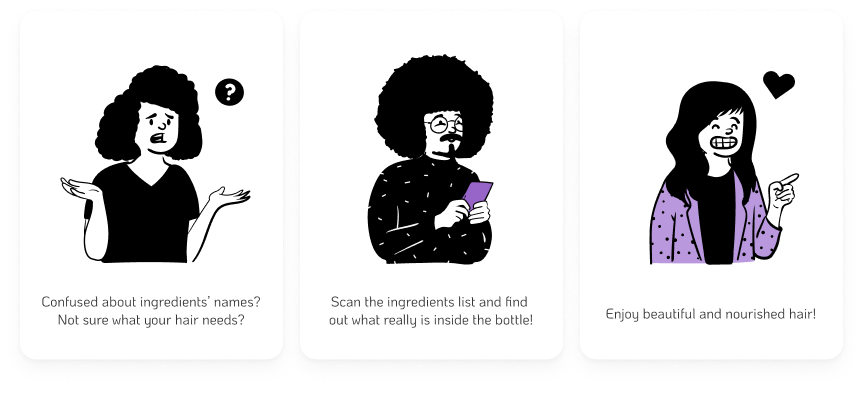
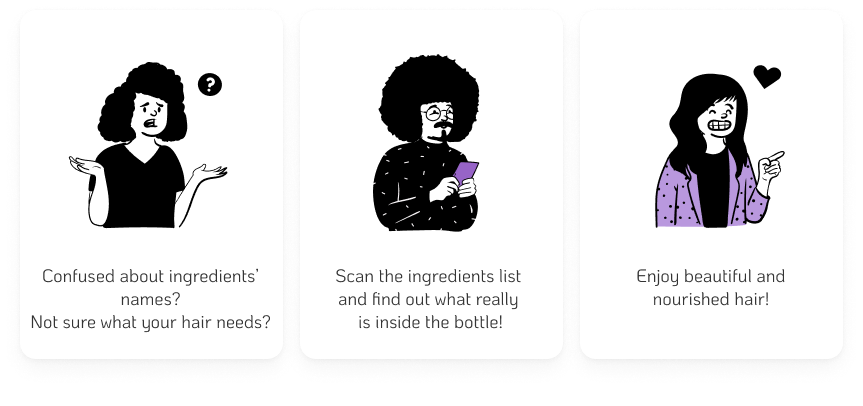
desktop view styling

diff --git a/src/components/DesktopView.vue b/src/components/DesktopView.vue
@@ -1,24 +1,160 @@
 <template>
-  <div class="bg-brand-nude w-screen h-screen">
+  <div class="relative bg-brand-nude w-screen h-screen">
+    <svg
+      class="absolute top-36 md:top-10 left-12 md:left-24"
+      width="50"
+      height="50"
+      viewBox="0 0 100 100"
+      fill="none"
+      xmlns="http://www.w3.org/2000/svg"
+    >
+      <path
+        d="M47.4012 11.9189C49.7547 30.6286 51.3792 49.6253 52.9506 88.427"
+        stroke="#F2AEE7"
+        stroke-width="2"
+        stroke-linecap="round"
+      />
+      <path
+        d="M21.9992 19.6449C39.0647 35.5117 55.817 52.1267 88.7222 87.2164"
+        stroke="#F2AEE7"
+        stroke-width="2"
+        stroke-linecap="round"
+      />
+      <path
+        d="M68.9223 16.6352C60.4965 33.5052 51.305 50.2093 31.0778 83.3591"
+        stroke="#F2AEE7"
+        stroke-width="2"
+        stroke-linecap="round"
+      />
+      <path
+        d="M88.2037 53.3961C69.3588 52.7171 50.3476 51.2726 11.7964 46.5981"
+        stroke="#F2AEE7"
+        stroke-width="2"
+        stroke-linecap="round"
+      />
+    </svg>
+    <svg
+      class="absolute top-56 md:top-20 right-16 md:right-24"
+      width="30"
+      height="30"
+      viewBox="0 0 100 100"
+      fill="none"
+      xmlns="http://www.w3.org/2000/svg"
+    >
+      <path
+        d="M47.4012 11.9189C49.7547 30.6286 51.3792 49.6253 52.9506 88.427"
+        stroke="#F2AEE7"
+        stroke-width="2"
+        stroke-linecap="round"
+      />
+      <path
+        d="M21.9992 19.6449C39.0647 35.5117 55.817 52.1267 88.7222 87.2164"
+        stroke="#F2AEE7"
+        stroke-width="2"
+        stroke-linecap="round"
+      />
+      <path
+        d="M68.9223 16.6352C60.4965 33.5052 51.305 50.2093 31.0778 83.3591"
+        stroke="#F2AEE7"
+        stroke-width="2"
+        stroke-linecap="round"
+      />
+      <path
+        d="M88.2037 53.3961C69.3588 52.7171 50.3476 51.2726 11.7964 46.5981"
+        stroke="#F2AEE7"
+        stroke-width="2"
+        stroke-linecap="round"
+      />
+    </svg>
+    <svg
+      class="absolute bottom-36 md:bottom-10 left-2 md:right-96"
+      width="100"
+      height="100"
+      viewBox="0 0 100 100"
+      fill="none"
+      xmlns="http://www.w3.org/2000/svg"
+    >
+      <path
+        d="M47.4012 11.9189C49.7547 30.6286 51.3792 49.6253 52.9506 88.427"
+        stroke="#F2AEE7"
+        stroke-width="2"
+        stroke-linecap="round"
+      />
+      <path
+        d="M21.9992 19.6449C39.0647 35.5117 55.817 52.1267 88.7222 87.2164"
+        stroke="#F2AEE7"
+        stroke-width="2"
+        stroke-linecap="round"
+      />
+      <path
+        d="M68.9223 16.6352C60.4965 33.5052 51.305 50.2093 31.0778 83.3591"
+        stroke="#F2AEE7"
+        stroke-width="2"
+        stroke-linecap="round"
+      />
+      <path
+        d="M88.2037 53.3961C69.3588 52.7171 50.3476 51.2726 11.7964 46.5981"
+        stroke="#F2AEE7"
+        stroke-width="2"
+        stroke-linecap="round"
+      />
+    </svg>
+    <a
+      href="https://instagram.com/haircare.scan" 
+      target="_blank"
+      class="bg-brand-purple absolute top-0 right-0 w-max p-4 rounded-bl-2xl shadow-md"
+    >
+      <svg
+        width="48"
+        height="49"
+        viewBox="0 0 64 65"
+        fill="none"
+        xmlns="http://www.w3.org/2000/svg"
+      >
+        <path
+          d="M21.3359 32.0013C21.3359 26.1103 26.1103 21.3333 32.0013 21.3333C37.8923 21.3333 42.6693 26.1103 42.6693 32.0013C42.6693 37.8923 37.8923 42.6693 32.0013 42.6693C26.1103 42.6693 21.3359 37.8923 21.3359 32.0013ZM15.569 32.0013C15.569 41.0769 22.9256 48.4336 32.0013 48.4336C41.0769 48.4336 48.4336 41.0769 48.4336 32.0013C48.4336 22.9256 41.0769 15.569 32.0013 15.569C22.9256 15.569 15.569 22.9256 15.569 32.0013ZM45.2438 14.9176C45.2438 17.0372 46.9628 18.7588 49.085 18.7588C51.2047 18.7588 52.9262 17.0372 52.9262 14.9176C52.9262 12.7979 51.2072 11.079 49.085 11.079C46.9628 11.079 45.2438 12.7979 45.2438 14.9176ZM19.0715 58.0495C15.9515 57.9073 14.2558 57.3878 13.1288 56.9483C11.6347 56.3667 10.5697 55.674 9.44788 54.5547C8.32861 53.4354 7.63327 52.3704 7.05424 50.8764C6.61481 49.7493 6.09524 48.0536 5.95307 44.9336C5.79797 41.5603 5.76695 40.547 5.76695 32.0013C5.76695 23.4556 5.80056 22.4448 5.95307 19.0689C6.09524 15.9489 6.61739 14.2558 7.05424 13.1262C7.63585 11.6321 8.32861 10.5671 9.44788 9.44529C10.5671 8.32602 11.6321 7.63068 13.1288 7.05166C14.2558 6.61222 15.9515 6.09265 19.0715 5.95048C22.4448 5.79539 23.4581 5.76437 32.0013 5.76437C40.547 5.76437 41.5577 5.79797 44.9336 5.95048C48.0536 6.09265 49.7468 6.61481 50.8764 7.05166C52.3705 7.63068 53.4354 8.32602 54.5573 9.44529C55.6766 10.5646 56.3693 11.6321 56.9509 13.1262C57.3904 14.2532 57.9099 15.9489 58.0521 19.0689C58.2072 22.4448 58.2382 23.4556 58.2382 32.0013C58.2382 40.5444 58.2072 41.5577 58.0521 44.9336C57.9099 48.0536 57.3878 49.7493 56.9509 50.8764C56.3693 52.3704 55.6766 53.4354 54.5573 54.5547C53.438 55.674 52.3705 56.3667 50.8764 56.9483C49.7493 57.3878 48.0536 57.9073 44.9336 58.0495C41.5603 58.2046 40.547 58.2356 32.0013 58.2356C23.4581 58.2356 22.4448 58.2046 19.0715 58.0495ZM18.8079 0.193869C15.4009 0.348964 13.0745 0.889212 11.0402 1.6802C8.93606 2.49703 7.15247 3.59304 5.37146 5.37146C3.59304 7.14989 2.49703 8.93348 1.6802 11.0402C0.889212 13.0745 0.348964 15.4009 0.193869 18.8079C0.0361889 22.22 0 23.3108 0 32.0013C0 40.6918 0.0361889 41.7826 0.193869 45.1947C0.348964 48.6016 0.889212 50.9281 1.6802 52.9624C2.49703 55.0665 3.59045 56.8527 5.37146 58.6311C7.14989 60.4095 8.93348 61.503 11.0402 62.3224C13.0771 63.1134 15.4009 63.6536 18.8079 63.8087C22.2225 63.9638 23.3108 64.0026 32.0013 64.0026C40.6944 64.0026 41.7826 63.9664 45.1947 63.8087C48.6016 63.6536 50.9281 63.1134 52.9624 62.3224C55.0665 61.503 56.8501 60.4095 58.6311 58.6311C60.4095 56.8527 61.503 55.0665 62.3224 52.9624C63.1134 50.9281 63.6562 48.6016 63.8087 45.1947C63.9638 41.78 64 40.6918 64 32.0013C64 23.3108 63.9638 22.22 63.8087 18.8079C63.6536 15.4009 63.1134 13.0745 62.3224 11.0402C61.503 8.93606 60.4095 7.15247 58.6311 5.37146C56.8527 3.59304 55.0665 2.49703 52.965 1.6802C50.9281 0.889212 48.6016 0.346379 45.1973 0.193869C41.7852 0.0387738 40.6944 0 32.0039 0C23.3108 0 22.2225 0.0361889 18.8079 0.193869Z"
+          fill="#F8F5F7"
+        />
+      </svg>
+    </a>
     <div
-      class="lg:container lg:mx-auto w-screen h-screen flex flex-row p-8 lg:p-24 items-center justify-between"
+      class="z-20 lg:container lg:mx-auto w-screen h-screen flex flex-row p-8 lg:p-24 items-center justify-between"
     >
       <div
-        class="flex flex-col w-full md:w-1/2 justify-between items-center space-y-12"
+        class="flex flex-col w-full md:w-1/2 justify-between items-center space-y-8 md:space-y-12"
       >
         <div class="space-y-4">
           <img src="../assets/images/logo.svg" alt="logo" />
-          <p class="text-2xl">Take the guess work out of hair care</p>
+          <p class="text-xl lg:text-2xl">
+            Take the guess work out of hair care
+          </p>
         </div>
-        <img src="../assets/images/SLIDER.png" alt="slider" />
-        <BrandButton class="text-lg lg:text-2xl py-4"
+        <img
+          class="hidden lg:flex"
+          src="../assets/images/SLIDER.png"
+          alt="slider"
+        />
+        <div class="hidden md:flex flex-col lg:hidden space-y-4">
+          <p>Confused about ingredients’ names?</p>
+          <p>
+            Scan the ingredients list and <br />
+            find out what really is inside the bottle!
+          </p>
+          <p>Enjoy beautiful and nourished hair!</p>
+        </div>
+        <img
+          src="../assets/images/mockup.png"
+          alt="mockup"
+          class="flex md:hidden w-2/3"
+        />
+        <BrandButton class="text-lg lg:text-2xl py-4" type="unbutton"
           >Download on supported mobile device</BrandButton
         >
       </div>
       <img
         src="../assets/images/mockup.png"
         alt="mockup"
-        class="hidden md:flex md:h-3/4 lg:h-full"
+        class="hidden -mr-12 md:-ml-0 md:flex md:h-3/4 lg:h-full"
       />
     </div>
   </div>

diff --git a/src/components/BrandButton.vue b/src/components/BrandButton.vue
@@ -4,6 +4,8 @@
     :class="[
       type === 'dark'
         ? 'bg-brand-purple hover:bg-brand-pink'
+        : type === 'unbutton'
+        ? 'bg-brand-pink hover:bg-brand-pink cursor-default'
         : 'bg-brand-pink hover:bg-brand-purple',
       text === 'xs' ? 'text-xs' : 'text-base',
     ]"
